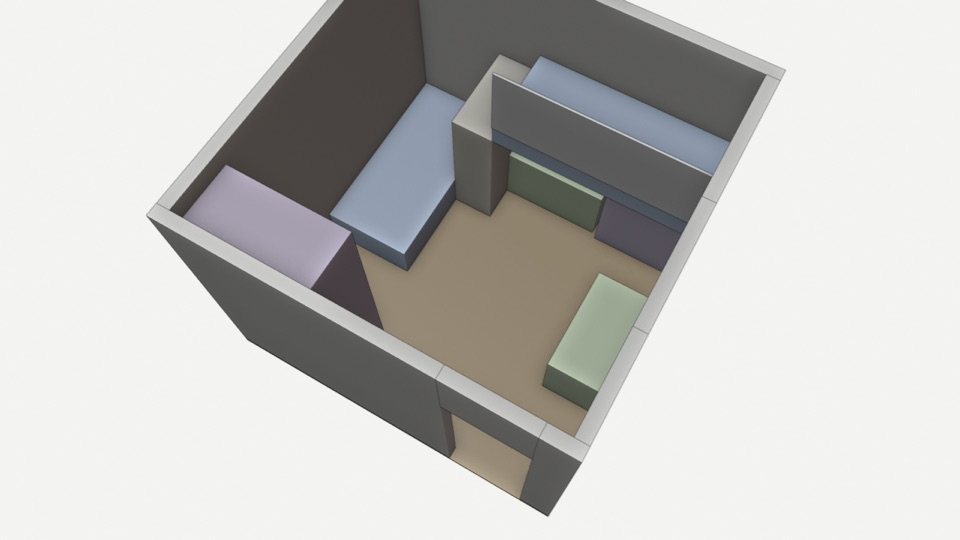
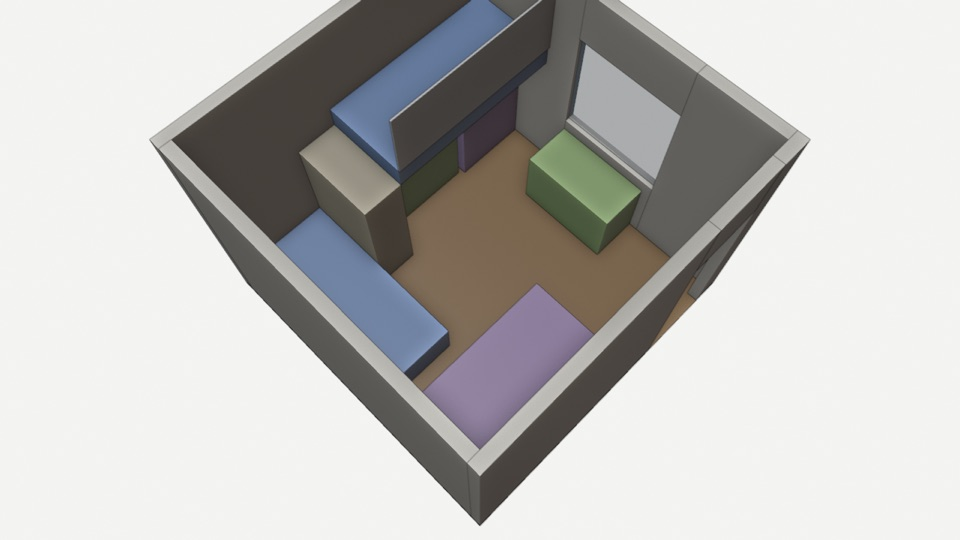
Stronger colours in 3D models and a more overhead viewer camera

diff --git a/docs/viewer.html b/docs/viewer.html
@@ -72,8 +72,8 @@ footer{border-top:1px solid var(--line);padding:22px 0 40px;color:var(--ink-3);f
   <div class="stage">
     <model-viewer id="mv" src="models/twins-offset-loft.glb" alt="3D model of the selected room layout"
       camera-controls touch-action="pan-y" auto-rotate auto-rotate-delay="1500" rotation-per-second="12deg"
-      camera-orbit="-35deg 55deg auto" field-of-view="32deg" shadow-intensity="0.6" exposure="1.05"
-      environment-image="neutral" interaction-prompt="none"></model-viewer>
+      camera-orbit="-35deg 32deg auto" field-of-view="30deg" shadow-intensity="0.8" exposure="0.85"
+      tone-mapping="aces" interaction-prompt="none"></model-viewer>
   </div>
   <div class="caption"><span id="note">Twins' room, 3.4 × 3.4 m: offset L-loft with a desk and wardrobe underneath.</span><span>Floor items are boxes at their real size and height.</span></div>
 

diff --git a/residential-space-designer/scripts/layout_to_gltf.py b/residential-space-designer/scripts/layout_to_gltf.py
@@ -14,6 +14,7 @@ Axes: glTF is Y-up, so layout x → X, height z → Y, and layout y (towards the
 N wall) → −Z. Units stay metres. Standard library only.
 """
 import base64
+import colorsys
 import json
 import struct
 import sys
@@ -30,7 +31,15 @@ WINDOW_H = 1.2         # default window height if the layout gives none [std]
 SKIP = {"route", "niche"}   # routes are rules, not objects; niches are recesses in the wall
 MIN_SIZE = 0.02
 
-FIXED_COLOURS = {"_wall": "#f2efe9", "_floor": "#c8b291", "_glass": "#9cc8e6"}
+FIXED_COLOURS = {"_wall": "#e6e1d8", "_floor": "#a8865f", "_glass": "#8fc1e3"}
+VIVID = 2.2   # the 2D plan pastels look washed out under 3D lighting, so boost saturation
+
+
+def _vivid(hex_colour):
+    r, g, b = (int(hex_colour[i:i + 2], 16) / 255 for i in (1, 3, 5))
+    h, sat, v = colorsys.rgb_to_hsv(r, g, b)
+    r, g, b = colorsys.hsv_to_rgb(h, min(1.0, sat * VIVID), v * 0.9)
+    return "#%02x%02x%02x" % (round(r * 255), round(g * 255), round(b * 255))
 
 
 def _linear(hex_colour, alpha=1.0):
@@ -154,7 +163,7 @@ def build(layout, state=None):
 
     def mesh(key):
         if key not in mesh_for:
-            colour = FIXED_COLOURS.get(key) or FILL.get(key, DEFAULT_FILL)
+            colour = FIXED_COLOURS.get(key) or _vivid(FILL.get(key, DEFAULT_FILL))
             mat = {"name": key.lstrip("_"), "pbrMetallicRoughness": {
                 "baseColorFactor": _linear(colour, 0.35 if key == "_glass" else 1.0),
                 "metallicFactor": 0.0, "roughnessFactor": 0.1 if key == "_glass" else 0.85}}

diff --git a/residential-space-designer/scripts/blender_walkthrough.py b/residential-space-designer/scripts/blender_walkthrough.py
@@ -124,7 +124,7 @@ def add_camera(scene, mode, lo, hi, top, frames, still):
         if mode == "orbit":
             cam_data.lens = 30
             r = span * 0.95
-            start = math.radians(-60)  # from the south-west corner, like the plans
+            start = math.radians(-135)  # from the south-west corner, so W is on the left as in the plans
             cam.location = (centre.x + r * math.cos(start + turn), centre.y + r * math.sin(start + turn), top + span * 1.45)
             target.location = (centre.x, centre.y, 0.3)
         else:
